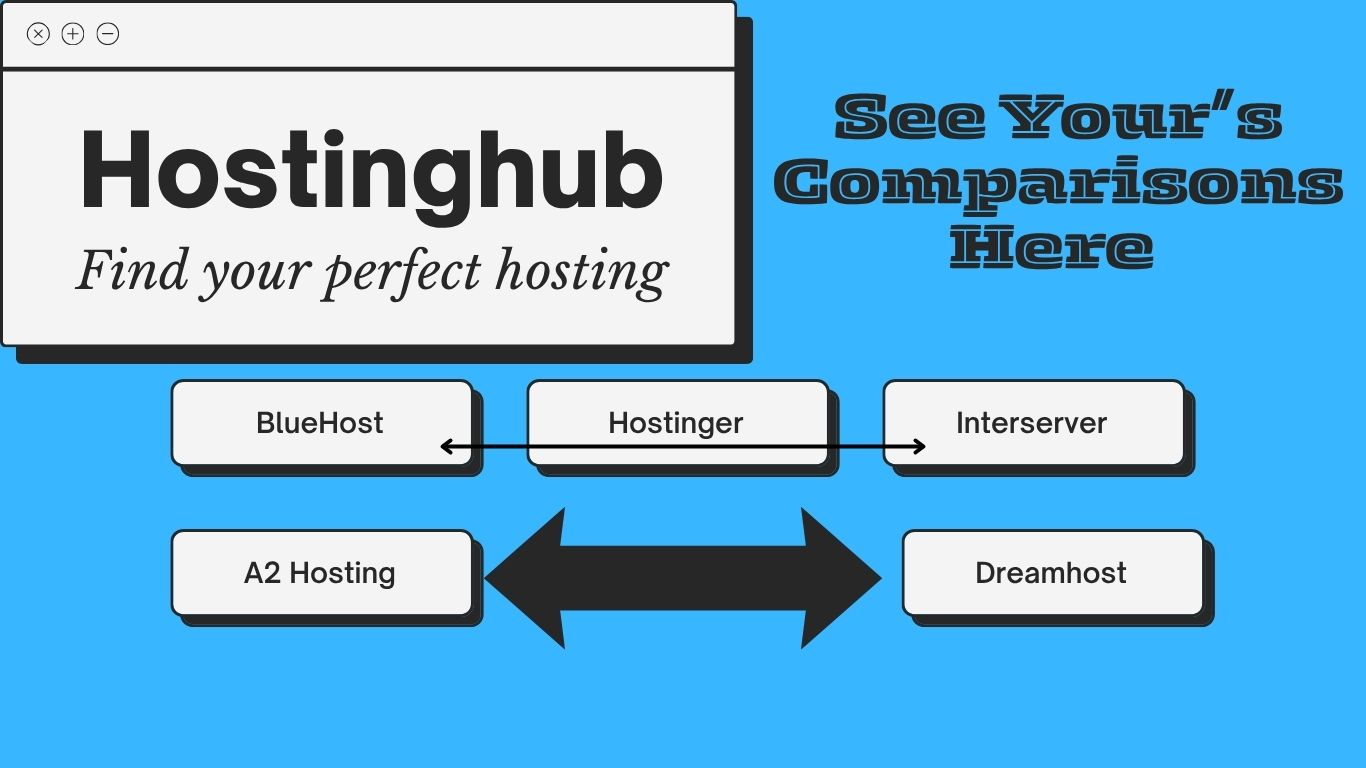
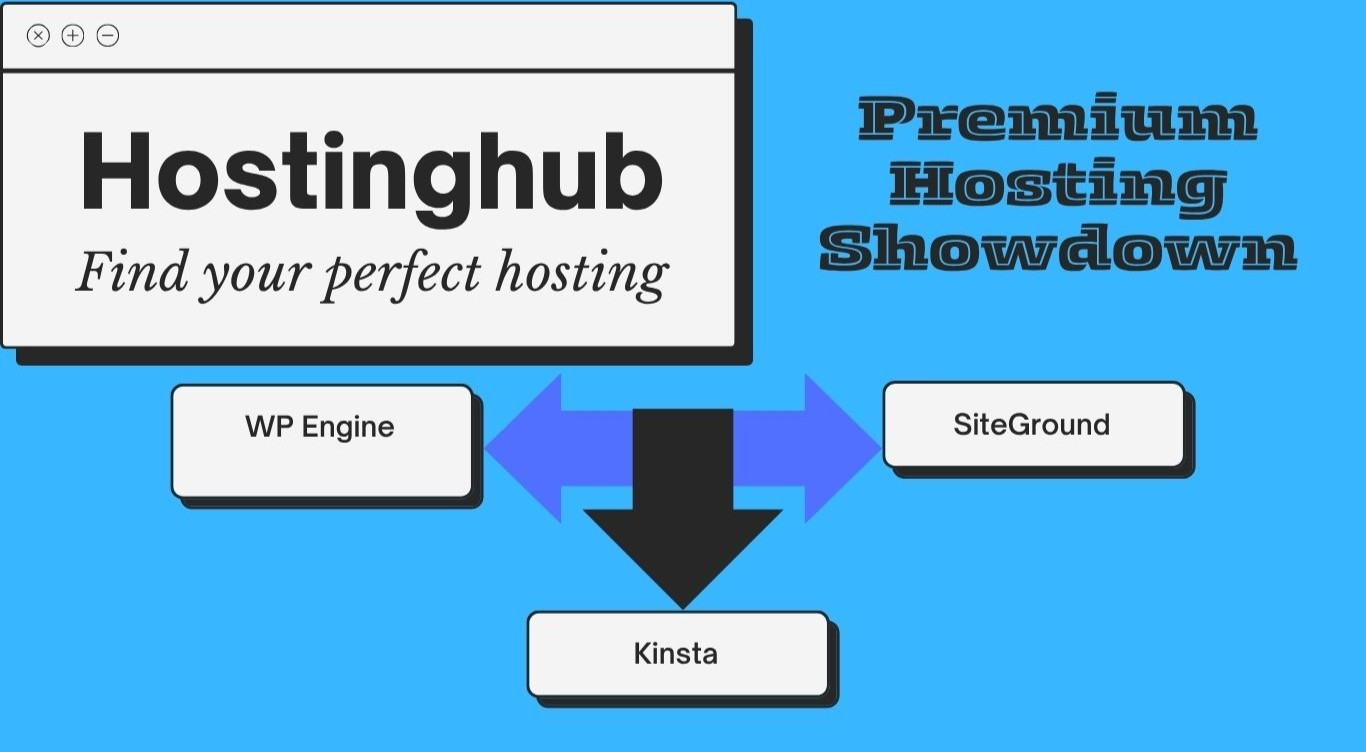
Integrate EmailJS for newsletter subscriptions

diff --git a/components/blog/Newsletter.tsx b/components/blog/Newsletter.tsx
@@ -2,6 +2,7 @@
 
 import { useState } from 'react'
 import { Mail, CheckCircle, AlertCircle } from 'lucide-react'
+import emailjs from '@emailjs/browser'
 
 export default function Newsletter() {
   const [email, setEmail] = useState('')
@@ -17,30 +18,41 @@ export default function Newsletter() {
       return
     }
 
+    // Validate email format
+    const emailRegex = /^[^\s@]+@[^\s@]+\.[^\s@]+$/
+    if (!emailRegex.test(email)) {
+      setStatus('error')
+      setMessage('Please enter a valid email address')
+      return
+    }
+
     setStatus('loading')
     
     try {
-      const response = await fetch('/api/newsletter', {
-        method: 'POST',
-        headers: {
-          'Content-Type': 'application/json',
+      // Replace these with your EmailJS credentials
+      const serviceId = process.env.NEXT_PUBLIC_EMAILJS_SERVICE_ID || 'YOUR_SERVICE_ID'
+      const templateId = process.env.NEXT_PUBLIC_EMAILJS_TEMPLATE_ID || 'YOUR_TEMPLATE_ID'
+      const publicKey = process.env.NEXT_PUBLIC_EMAILJS_PUBLIC_KEY || 'YOUR_PUBLIC_KEY'
+
+      // Send email using EmailJS
+      await emailjs.send(
+        serviceId,
+        templateId,
+        {
+          user_email: email,
+          to_email: email, // Send to subscriber
+          from_name: 'HostingHub',
         },
-        body: JSON.stringify({ email }),
-      })
+        publicKey
+      )
 
-      const data = await response.json()
-
-      if (response.ok) {
-        setStatus('success')
-        setMessage('Thank you for subscribing! Check your email for confirmation.')
-        setEmail('')
-      } else {
-        setStatus('error')
-        setMessage(data.message || 'Something went wrong. Please try again.')
-      }
+      setStatus('success')
+      setMessage('Thank you for subscribing! Check your email for confirmation.')
+      setEmail('')
     } catch (error) {
+      console.error('EmailJS error:', error)
       setStatus('error')
-      setMessage('Network error. Please try again.')
+      setMessage('Something went wrong. Please try again.')
     }
   }
 
